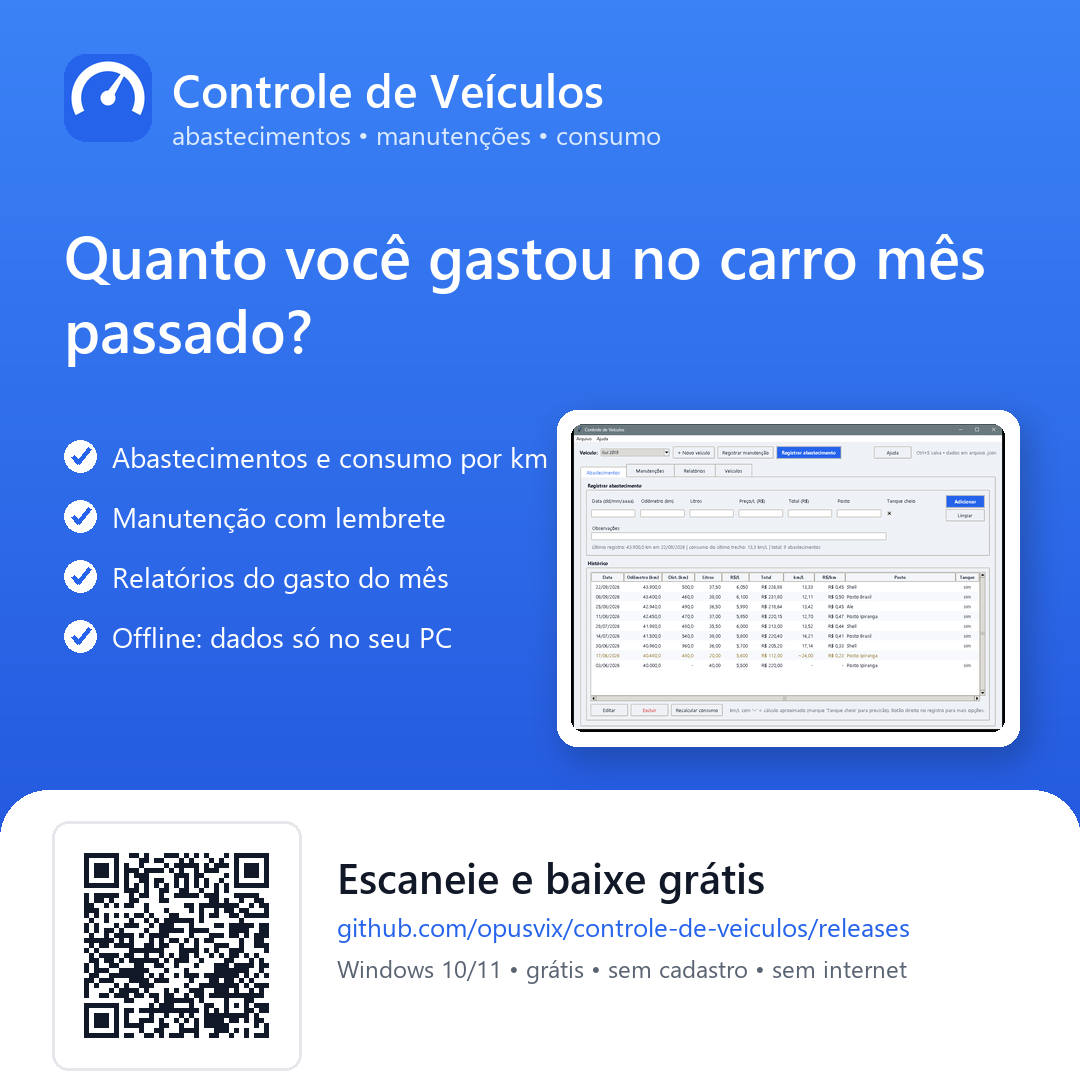
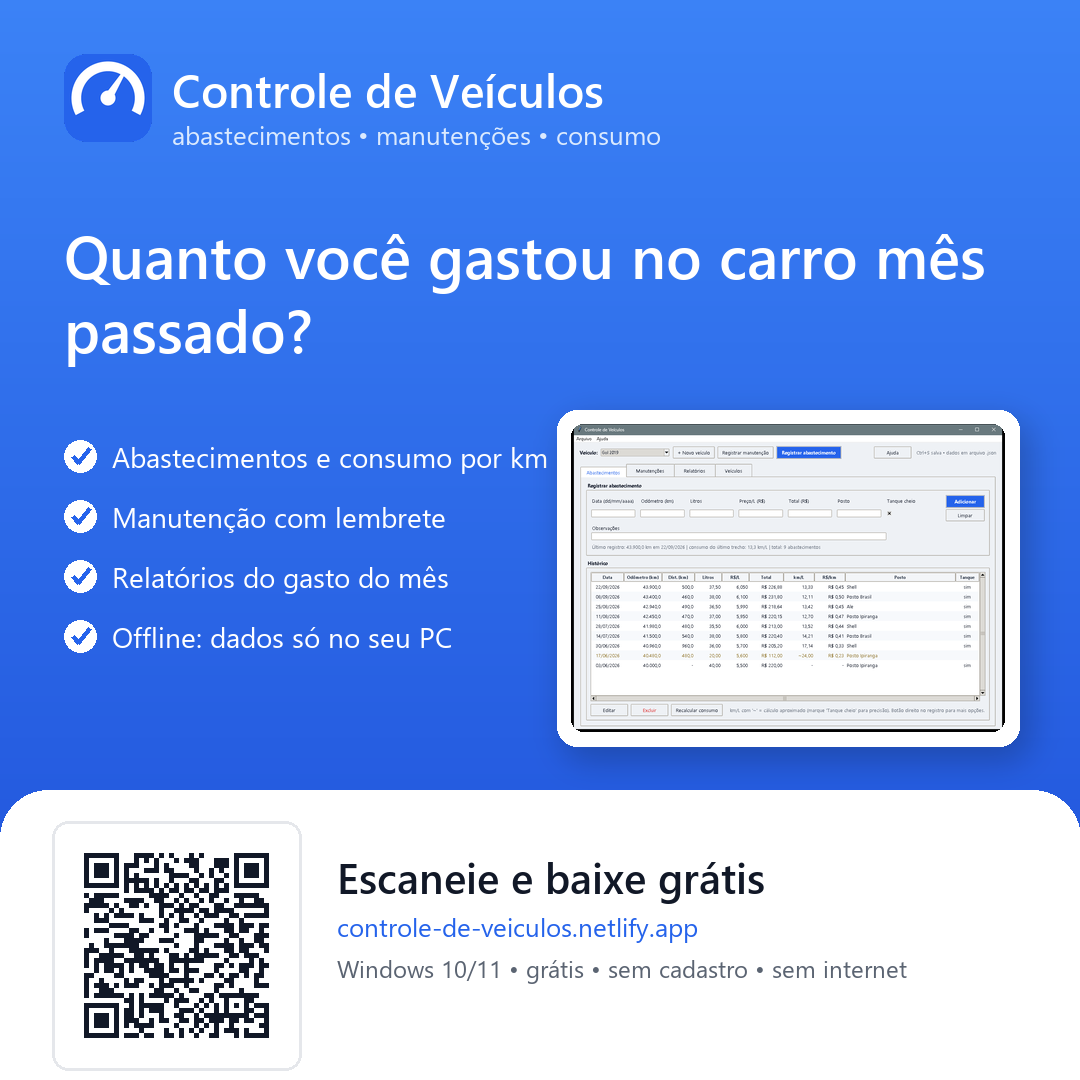
Downloads, manual e artes apontam para o site oficial no Netlify

Changed region(s): [[0.0611, 0.7639, 0.2444, 0.9778], [0.3056, 0.8556, 0.8556, 0.8861]]

diff --git a/tools/divulgacao.py b/tools/divulgacao.py
@@ -13,9 +13,9 @@ Sai na pasta divulgacao\\:
     story-1080x1920.png       arte vertical para stories (com QR)
     capa-reels-1080x1920.png  capa de Reels/TikTok (texto no centro)
 
-O QR e os links apontam para a página da release mais nova
-(https://github.com/opusvix/controle-de-veiculos/releases/latest): quando
-sair uma versão nova, estas artes continuam valendo sem mudar nada.
+O QR e os links apontam para o pacote de download do site oficial
+(https://controle-de-veiculos.netlify.app/download/Controle-de-veiculos.zip):
+como o nome do arquivo não muda, as artes continuam valendo sem mudar nada.
 
 Os textos (legendas por rede e roteiro de Reels) ficam em
 divulgacao\\DIVULGACAO.md.
@@ -31,8 +31,8 @@ RAIZ = Path(__file__).resolve().parents[1]
 PASTA_IMG = RAIZ / "imagens"
 SAIDA = RAIZ / "divulgacao"
 
-LINK = "https://github.com/opusvix/controle-de-veiculos/releases/latest"
-LINK_CURTO = "github.com/opusvix/controle-de-veiculos/releases"
+LINK = "https://controle-de-veiculos.netlify.app/download/Controle-de-veiculos.zip"
+LINK_CURTO = "controle-de-veiculos.netlify.app"
 
 # cores do programa (controle_veiculos/ui/app.py)
 AZUL = "#2563eb"        # ACCENT

diff --git a/divulgacao/DIVULGACAO.md b/divulgacao/DIVULGACAO.md
@@ -3,9 +3,9 @@
 Material pronto para divulgar o Controle de Veículos nas redes. As imagens
 ficam nesta pasta; os textos abaixo são para copiar e colar.
 
-O link e o QR de todas as artes apontam para a página da release mais nova:
+O link e o QR de todas as artes apontam para o pacote do site oficial:
 
-<https://github.com/opusvix/controle-de-veiculos/releases/latest>
+<https://controle-de-veiculos.netlify.app/download/Controle-de-veiculos.zip>
 
 Quando sair uma versão nova do programa, **nada precisa ser mudado** nas artes.
 
@@ -50,7 +50,7 @@ nenhuma biblioteca fora da biblioteca padrão.
 > usuário e senha. Seus dados são seus.
 >
 > É gratuito e de código aberto. Dá para instalar em 2 minutos:
-> <https://github.com/opusvix/controle-de-veiculos/releases/latest>
+> <https://controle-de-veiculos.netlify.app/download/Controle-de-veiculos.zip>
 >
 > Se você também perde a noção de quanto o carro "come", testa e me conta o
 > que achou — feedback é bem-vindo. 🚗
@@ -74,7 +74,7 @@ nenhuma biblioteca fora da biblioteca padrão.
 > internet — com senha para ninguém abrir no seu lugar.
 >
 > Baixar é de graça (Windows 10/11):
-> <https://github.com/opusvix/controle-de-veiculos/releases/latest>
+> <https://controle-de-veiculos.netlify.app/download/Controle-de-veiculos.zip>
 >
 > É só baixar o zip, extrair tudo e dar dois cliques em `Instalar.bat` — o
 > passo a passo com fotos vem junto. Manda para aquele amigo que diz que
@@ -104,13 +104,13 @@ Publique junto com `post-feed-1080x1080.png`.
 > Programa novo aqui em casa: **Controle de Veículos** — anota abastecimento,
 > mostra o consumo do carro, avisa quando chega a hora da manutenção e ainda
 > funciona offline (dados ficam no PC, sem nuvem). Gratuito:
-> <https://github.com/opusvix/controle-de-veiculos/releases/latest>
+> <https://controle-de-veiculos.netlify.app/download/Controle-de-veiculos.zip>
 > (baixa o zip, extrai e dá dois cliques em Instalar.bat)
 
 ## Stories (Instagram, Facebook e WhatsApp status)
 
 1. Publique a arte `story-1080x1920.png`.
-2. Adicione o **sticker de link** com o endereço da release (o card branco da
+2. Adicione o **sticker de link** com o endereço do site oficial (o card branco da
    arte já tem o QR — o sticker ajuda quem prefere clicar).
 3. Sticker de **enquete**: "Você sabe quanto gastou no carro mês passado?"
    — *Nem ideia* / *Sei sim*.

diff --git a/INSTALAR-COMO-USAR.md b/INSTALAR-COMO-USAR.md
@@ -30,11 +30,10 @@ Vale para **Windows 10 e 11** (computador) e para **celular** (Android ou iPhone
 
 ## Passo 0 — Baixe o programa (primeira vez)
 
-O programa é aberto e fica no GitHub — é só baixar o pacote:
+O programa é gratuito — é só baixar o pacote do site oficial:
 
-1. Abra a página de downloads: <https://github.com/opusvix/controle-de-veiculos/releases/latest>
-2. Procure a área **Assets** (no fim da página) e baixe o arquivo
-   **Controle-de-veiculos.zip** — é o pacote completo, com tudo dentro.
+1. Baixe o pacote: <https://controle-de-veiculos.netlify.app/download/Controle-de-veiculos.zip>
+2. O **Controle-de-veiculos.zip** é o pacote completo, com tudo dentro.
 3. Abra a pasta **Downloads**, clique com o botão direito em
    **Controle-de-veiculos.zip** e escolha **Extrair tudo**.
 4. Vai surgir uma pasta com os arquivos do programa: é dentro dela que ficam
@@ -401,7 +400,7 @@ Não. Tudo funciona sem internet; seus dados nunca saem do computador nem do cel
 A sincronização usa a sua rede Wi-Fi de casa, só entre os seus aparelhos.
 
 **De onde baixo o programa (e a versão nova)?**
-Da página de downloads do GitHub: <https://github.com/opusvix/controle-de-veiculos/releases/latest>.
+Do site oficial: <https://controle-de-veiculos.netlify.app/> (botão **Baixar**).
 Baixe o `Controle-de-veiculos.zip`, extraia tudo e rode o **`Instalar.bat`**: se já
 houver uma versão instalada, ele **remove a antiga antes** (os dados nunca são
 apagados). O mesmo lugar serve para pegar atualizações.

diff --git a/README.md b/README.md
@@ -19,18 +19,15 @@ internet nem por serviço de terceiros.
 
 ## Baixar pronto (sem compilar)
 
-- **Pacote completo:** baixe o **`Controle-de-veiculos.zip`** na página de
-  [Releases](https://github.com/opusvix/controle-de-veiculos/releases/latest),
+- **Pacote completo:** baixe o **`Controle-de-veiculos.zip`** no
+  [site oficial](https://controle-de-veiculos.netlify.app/),
   extraia tudo e dê dois cliques em **`Instalar.bat`** — o passo a passo
   com fotos está no [`INSTALAR-COMO-USAR.md`](INSTALAR-COMO-USAR.md).
 - **Só o programa:** o arquivo `Controle-de-Veiculos.exe` na mesma página
   (portátil, Windows 10/11, sem instalar nada).
 
-> **Não baixe os "Source code"** (`Source code (zip)` e `Source code (tar.gz)`):
-> são gerados pelo GitHub e vêm só com o código, sem o programa.
-
-Os arquivos ficam em [Releases](https://github.com/opusvix/controle-de-veiculos/releases);
-a página "latest" sempre aponta para a versão mais nova.
+Os arquivos ficam no [site oficial](https://controle-de-veiculos.netlify.app/);
+o endereço é fixo e a versão mais nova fica sempre no mesmo lugar.
 
 ## Se o Windows avisar que o programa é "desconhecido"
 
